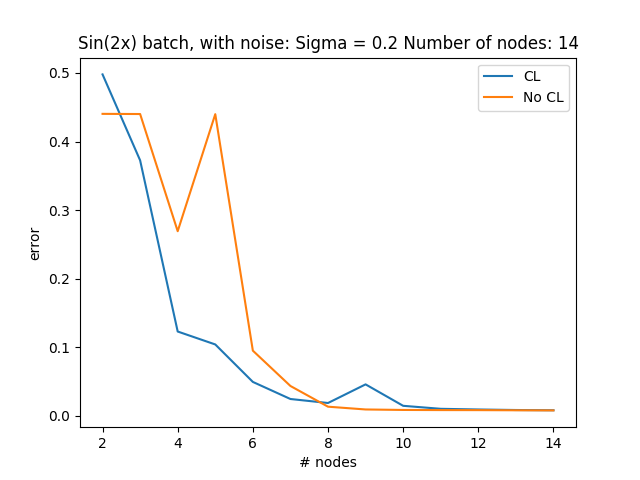
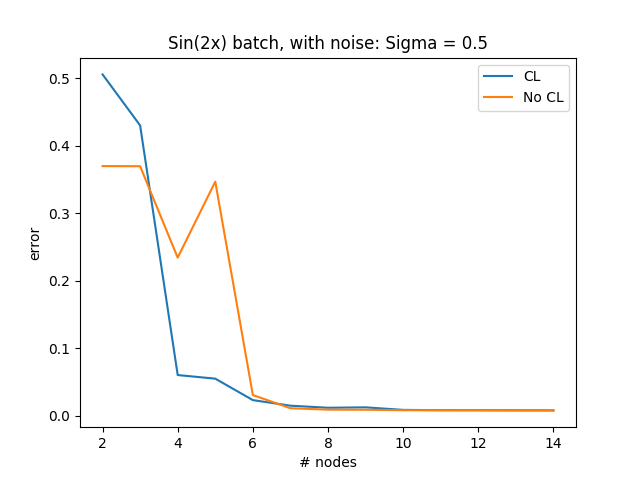
cl_plots

diff --git a/g_rbf.py b/g_rbf.py
@@ -167,9 +167,9 @@ def seq_plots(sigma2=0.5):
 
     plt.show()
 
-def CL_plots(sigma2=0.2):
+def CL_plots(sigma2=0.5):
     x, valid, label, valid_label = generateData(0, noise=1)
-    epochs = 50#number of epochs
+    epochs = 100#number of epochs
     eta = 0.2 #step size, learning rate
 
     no_of_nodes = np.arange(2,15,1)
@@ -202,12 +202,10 @@ def CL_plots(sigma2=0.2):
     plt.legend(handles=[est, tru, nodes])
     plt.xlabel('x')
     plt.ylabel('f(x)')
-
     plt.title('Sin(2x) seq, Sigma = ' + str(sigma2) + ' Epochs: ' + str(epochs) + ' eta: ' + str(eta) + ' Nodes: ' + str(i))
 
-
     """
-    plt.title('Sin(2x) batch, with noise: Sigma = ' + str(sigma2) + ' Number of nodes: ' + str(i))
+    plt.title('Sin(2x) batch, with noise: Sigma = ' + str(sigma2))
     CL, = plt.plot(no_of_nodes, tot_errors_cl, label="CL")
     NoCL, = plt.plot(no_of_nodes, tot_errors, label="No CL")
     plt.xlabel('# nodes')
